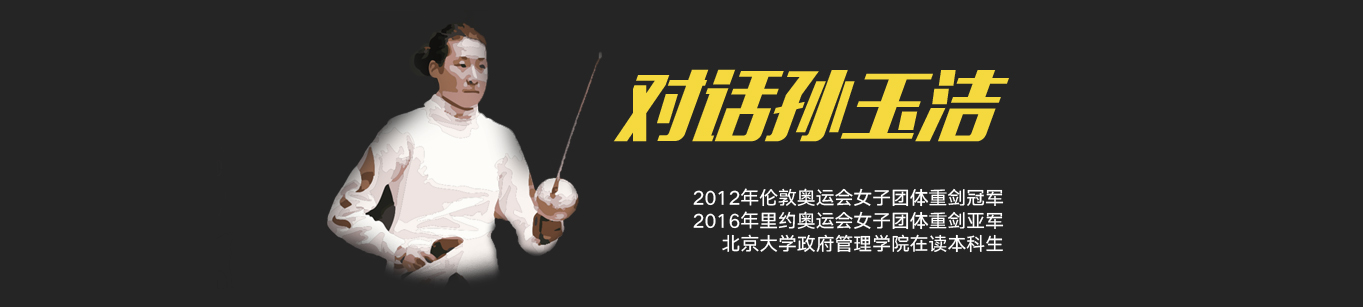
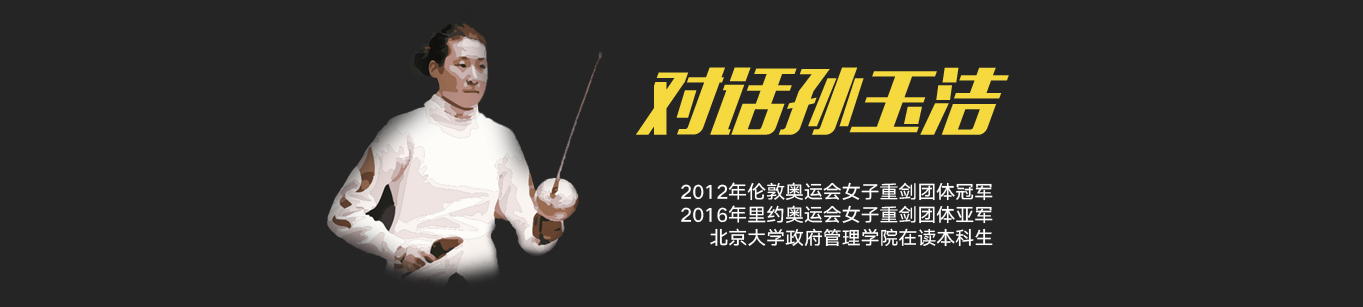
，，

Changed region(s): [[0.4314, 0.2052, 0.7395, 0.4691], [0.493, 0.5863, 0.7395, 0.8208]]

diff --git a/olympic/index.html b/olympic/index.html
@@ -506,7 +506,7 @@ p {
 			<img src="image/banner.jpg" s.jpg" style="width: 100%"></img>
 			<!--放孙玉洁-->
 		</div>	
-        <div class="first" style="margin-top: 2%">
+        <div class="first" style="margin-top: -18%">
             <h3>未来</h3>
             <p>如果在百度里搜索“奥运冠军退役“这几个字，你会发现后面往往跟着一个”惨“字。每隔一段时间，我们似乎都会被一篇类似“曾经的世界冠军，现在竟如此凄惨”的文章刷屏。作为运动员中的佼佼者，奥运冠军退役后的去向是什么，他们究竟过得怎么样？</p>
 		</div>
